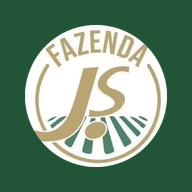
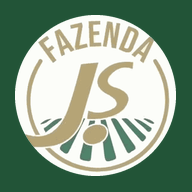
Ícone do aplicativo refeito com critério, e gerado por script
Os arquivos tinham três defeitos de verdade, todos medidos e não achados no
olho. A centralização, que eu tinha desconfiado, estava certa — 67px de
margem nos quatro lados.

1. MOEDA PEQUENA. A moeda branca ocupava 73,8% da largura: sobrava verde e o
   desenho ficava tímido nos 60px em que o ícone é realmente visto na tela de
   início. Comparei 76, 80, 84 e 88% no tamanho real com a squircle do iOS
   aplicada. 88% aperta contra a borda; 76% some. Ficou 84%.

2. BORDA BORRADA. A primeira tentativa ampliava o bitmap 4x junto com o resto
   e reduzia no fim — e ampliar um arquivo de 400px para 1720 não inventa
   detalhe, só espalha a borda. Agora o bitmap é redimensionado UMA vez, da
   origem direto para o tamanho final; quem passa pela superamostragem é só a
   máscara redonda, que é geometria e não tem detalhe a perder. A transição
   verde→branco saiu de borrada para zero pixel: é um corte limpo.

3. "any" E "maskable" NO MESMO ARQUIVO. O manifesto declarava os dois usos no
   mesmo PNG, e não dá: o Android recorta o "maskable" num círculo e só
   garante os 80% centrais, então a 84% o anel verde sumiria e o corte entraria
   no desenho. Agora são arquivos separados — icon-maskable-512.png, com a
   moeda a 64%, sobra folga confortável dentro do círculo.

Também: cantos transparentes preenchidos com a cor do miolo antes de
redimensionar (sem isso o preto de baixo da transparência mancha a borda), e
[…]

Changed region(s): [[0.0625, 0.0625, 0.9375, 0.9375], [0.5938, 0.6875, 0.625, 0.7188]]

diff --git a/index.html b/index.html
@@ -18,8 +18,8 @@
      que ele nunca viu não tem como ser confundido com nada que já tenha. -->
 <link rel="apple-touch-icon" sizes="180x180" href="icone-fazenda-js.png" />
 <link rel="apple-touch-icon" href="icone-fazenda-js.png" />
-<link rel="icon" type="image/png" href="icon-192.png?v=70" />
-<link rel="stylesheet" href="style.css?v=70" />
+<link rel="icon" type="image/png" href="icon-192.png?v=71" />
+<link rel="stylesheet" href="style.css?v=71" />
 <link href="https://fonts.googleapis.com/css2?family=Fraunces:ital,opsz,wght@0,9..144,400;0,9..144,600;0,9..144,800;1,9..144,400;1,9..144,600&family=DM+Mono:wght@400;500&display=swap" rel="stylesheet" />
 </head>
 <body>
@@ -884,6 +884,6 @@ BR002,15/01/2025,340</pre>
 <script src="https://www.gstatic.com/firebasejs/10.12.2/firebase-app-compat.js"></script>
 <script src="https://www.gstatic.com/firebasejs/10.12.2/firebase-auth-compat.js"></script>
 <script src="https://www.gstatic.com/firebasejs/10.12.2/firebase-firestore-compat.js"></script>
-<script src="app.js?v=70"></script>
+<script src="app.js?v=71"></script>
 </body>
 </html>

diff --git a/app.js b/app.js
@@ -2,7 +2,7 @@
 // Sobe junto com o número no sw.js e no index.html a cada publicação. Fica
 // visível no menu: quando um recurso novo "não aparece", é este número que
 // diz se o aparelho está atrasado ou se o defeito é do aplicativo.
-const VERSAO = 70;
+const VERSAO = 71;
 const $ = id => document.getElementById(id);
 const LS = {
   g: (k, d) => { try { const v = JSON.parse(localStorage.getItem(k)); return v == null ? d : v; } catch (e) { return d; } },
@@ -2418,8 +2418,8 @@ async function abrirAnexo(id) {
 // endereços que conhece — e o PDF não abria no curral sem sinal. Sendo do
 // próprio app, entra na mesma regra de tudo o mais: rede primeiro, cache como
 // reserva, e fica guardado desde a instalação.
-const PDFJS_JS = 'vendor/pdf.min.js?v=70';
-const PDFJS_WORKER = 'vendor/pdf.worker.min.js?v=70';
+const PDFJS_JS = 'vendor/pdf.min.js?v=71';
+const PDFJS_WORKER = 'vendor/pdf.worker.min.js?v=71';
 let pdfjsPronto = null;
 function carregarPdfJs() {
   if (pdfjsPronto) return pdfjsPronto;

diff --git a/sw.js b/sw.js
@@ -1,5 +1,5 @@
-const CACHE = 'fazendajs-v70';
-const ASSETS = ['./', './index.html', './style.css', './app.js', './manifest.json', './logo.png', './icon-192.png', './icon-512.png', './icone-fazenda-js.png'];
+const CACHE = 'fazendajs-v71';
+const ASSETS = ['./', './index.html', './style.css', './app.js', './manifest.json', './logo.png', './icon-192.png', './icon-512.png', './icon-maskable-512.png', './icone-fazenda-js.png'];
 // O leitor de PDF é do próprio aplicativo e fica guardado desde a instalação:
 // nota fiscal em PDF precisa abrir no curral, onde não há sinal.
 const LEITOR_PDF = ['./vendor/pdf.min.js', './vendor/pdf.worker.min.js'];

diff --git a/ferramentas/gerar-icones.py b/ferramentas/gerar-icones.py
@@ -1,0 +1,102 @@
+#!/usr/bin/env python3
+"""Gera os ícones do aplicativo a partir de logo.png.
+
+Por que existe este arquivo: ícone bom não se edita à mão. Se o desenho for
+recortado no olho uma vez, ninguém consegue repetir o recorte na próxima vez
+que a marca mudar, e a diferença aparece — meio pixel de descentralização é
+visível num ícone de 60px na tela de início. Aqui a receita fica escrita, e
+rodar de novo dá exatamente o mesmo resultado.
+
+Decisões tomadas, e o motivo de cada uma:
+
+1. MOEDA MAIOR. A versão anterior deixava a moeda branca com 73,8% da largura:
+   sobrava verde demais e o desenho ficava tímido no meio do quadrado. Sobe
+   para 84% — o ícone passa a ser a marca, não um campo verde com a marca
+   dentro.
+
+2. O DESENHO É REDIMENSIONADO UMA VEZ SÓ. A primeira tentativa ampliava o logo
+   4x junto com o resto e reduzia tudo no fim. Ficou borrado, e com razão: a
+   origem tem 400px, ampliar para 1720 não inventa detalhe nenhum, só espalha
+   a borda, e a redução depois não traz de volta o que se perdeu. Aqui o
+   bitmap sai de 400 direto para o tamanho final, num único passo. Quem é
+   ampliado 4x é só a MÁSCARA redonda, que é geometria e não tem detalhe a
+   perder — é dela que vem a borda lisa.
+
+3. OS CANTOS TRANSPARENTES SÃO PREENCHIDOS ANTES. Reduzir um PNG com canto
+   transparente mistura o preto de baixo da transparência na borda da moeda e
+   deixa uma franja escura. Preenchendo os cantos com a própria cor de fundo
+   do logo antes de redimensionar, a borda sai limpa.
+
+4. SEM SOMBRA E SEM DEGRADÊ. A recomendação da Apple é essa, e o aplicativo
+   inteiro é verde chapado: ícone com profundidade falsa destoaria da tela que
+   ele abre.
+
+5. "any" E "maskable" SEPARADOS. O Android recorta o ícone "maskable" num
+   círculo e só garante os 80% centrais. Com a moeda a 84% o anel verde sumiria
+   e o recorte entraria no desenho. Então o arquivo maskable é outro, com a
+   moeda a 64%, e o manifesto deixa de declarar o mesmo arquivo como as duas
+   coisas — que era o que estava errado antes.
+
+Rodar:  python3 ferramentas/gerar-icones.py
+"""
+from PIL import Image, ImageDraw
+from pathlib import Path
+
+RAIZ = Path(__file__).resolve().parent.parent
+ORIGEM = RAIZ / 'logo.png'
+
+VERDE = (34, 84, 55)        # #225437, o mesmo verde da marca no aplicativo
+SS = 4                      # superamostragem: desenha 4x maior e reduz
+
+# nome, lado em px, quanto da largura a moeda ocupa
+SAIDAS = [
+    ('icone-fazenda-js.png', 180, 0.84),   # atalho do iPhone (a squircle só come os cantos)
+    ('icon-192.png',         192, 0.84),   # manifesto, purpose "any"
+    ('icon-512.png',         512, 0.84),   # manifesto, purpose "any"
+    ('icon-maskable-512.png', 512, 0.64),  # manifesto, purpose "maskable" (área segura do Android)
+]
+
+
+def cor_de_fundo_do_logo(logo):
+    """A cor que preenche a moeda no arquivo de origem — não é branco puro."""
+    px = logo.load()
+    return px[logo.size[0] // 2, 8][:3]
+
+
+def mascara_redonda(d):
+    """Círculo de diâmetro d com a borda lisa, desenhado grande e reduzido.
+
+    Só a máscara passa pela ampliação: ela é geometria pura, então reduzir
+    depois devolve uma borda macia sem borrar desenho nenhum.
+    """
+    m = Image.new('L', (d * SS, d * SS), 0)
+    ImageDraw.Draw(m).ellipse([0, 0, d * SS - 1, d * SS - 1], fill=255)
+    return m.resize((d, d), Image.LANCZOS)
+
+
+def gerar(logo, chapado, lado, fracao_moeda):
+    tela = Image.new('RGB', (lado, lado), VERDE)
+    d = int(round(lado * fracao_moeda))       # diâmetro da moeda
+    canto = (lado - d) // 2
+    # Um único redimensionamento do bitmap, da origem para o tamanho final.
+    tela.paste(chapado.resize((d, d), Image.LANCZOS), (canto, canto), mascara_redonda(d))
+    return tela
+
+
+def main():
+    logo = Image.open(ORIGEM).convert('RGBA')
+    if logo.size[0] != logo.size[1]:
+        raise SystemExit('logo.png precisa ser quadrado')
+    # Cantos transparentes preenchidos com a cor de dentro da moeda, ANTES de
+    # redimensionar: é o que evita a franja escura na borda.
+    chapado = Image.new('RGB', logo.size, cor_de_fundo_do_logo(logo))
+    chapado.paste(logo, (0, 0), logo)
+    for nome, lado, fracao in SAIDAS:
+        # Sem canal alpha: o iOS compõe ícone transparente sobre preto, e o
+        # resultado é uma moldura preta que ninguém pediu.
+        gerar(logo, chapado, lado, fracao).save(RAIZ / nome, 'PNG', optimize=True)
+        print(f'{nome:24} {lado}x{lado}  moeda {fracao:.0%}')
+
+
+if __name__ == '__main__':
+    main()
